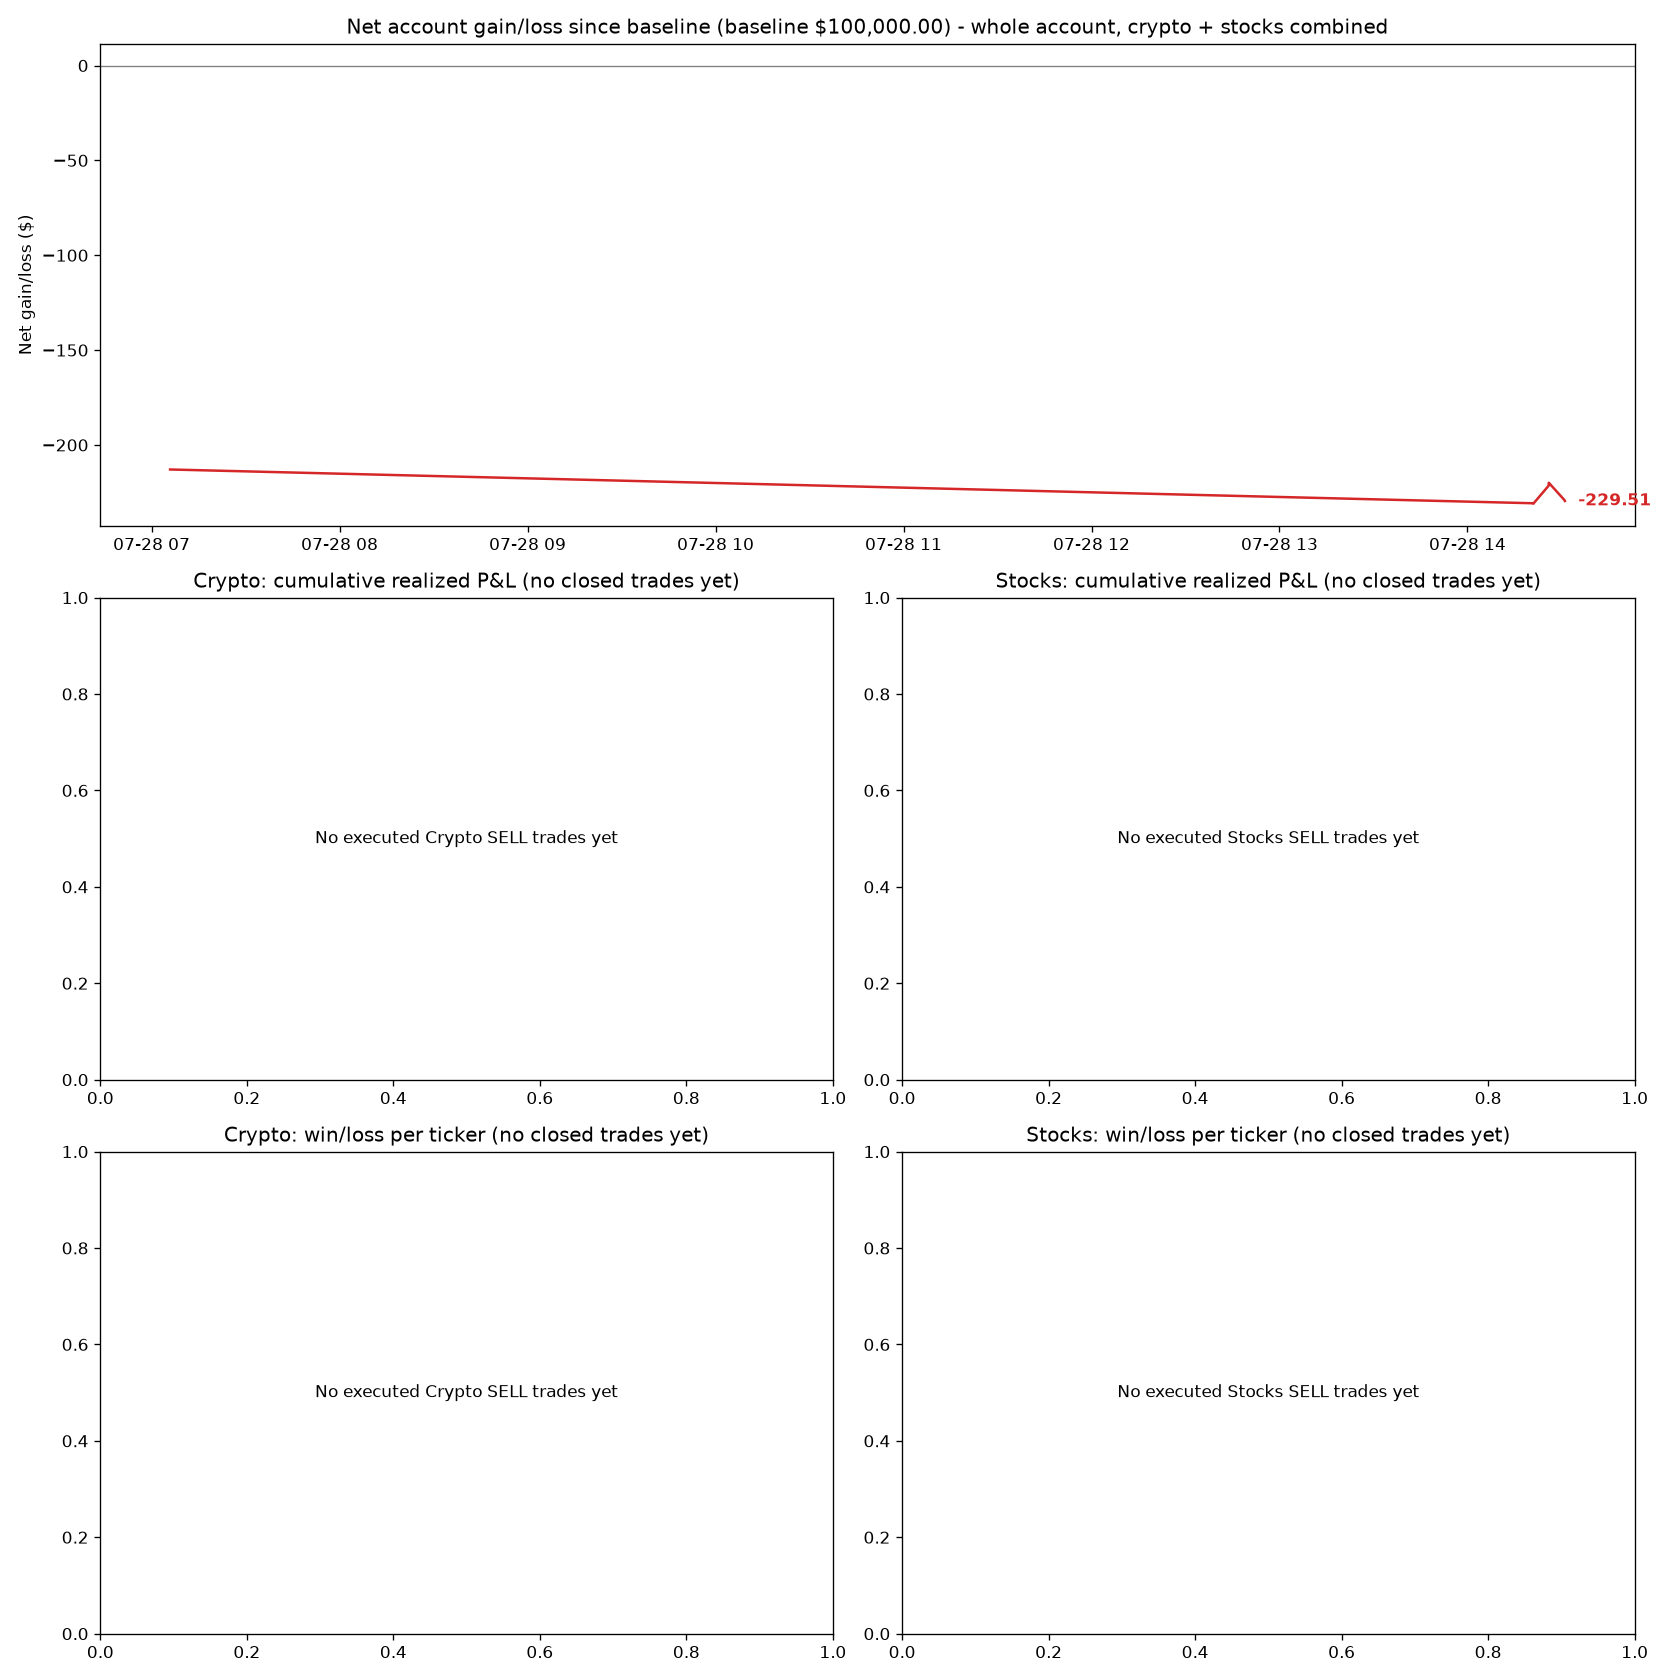
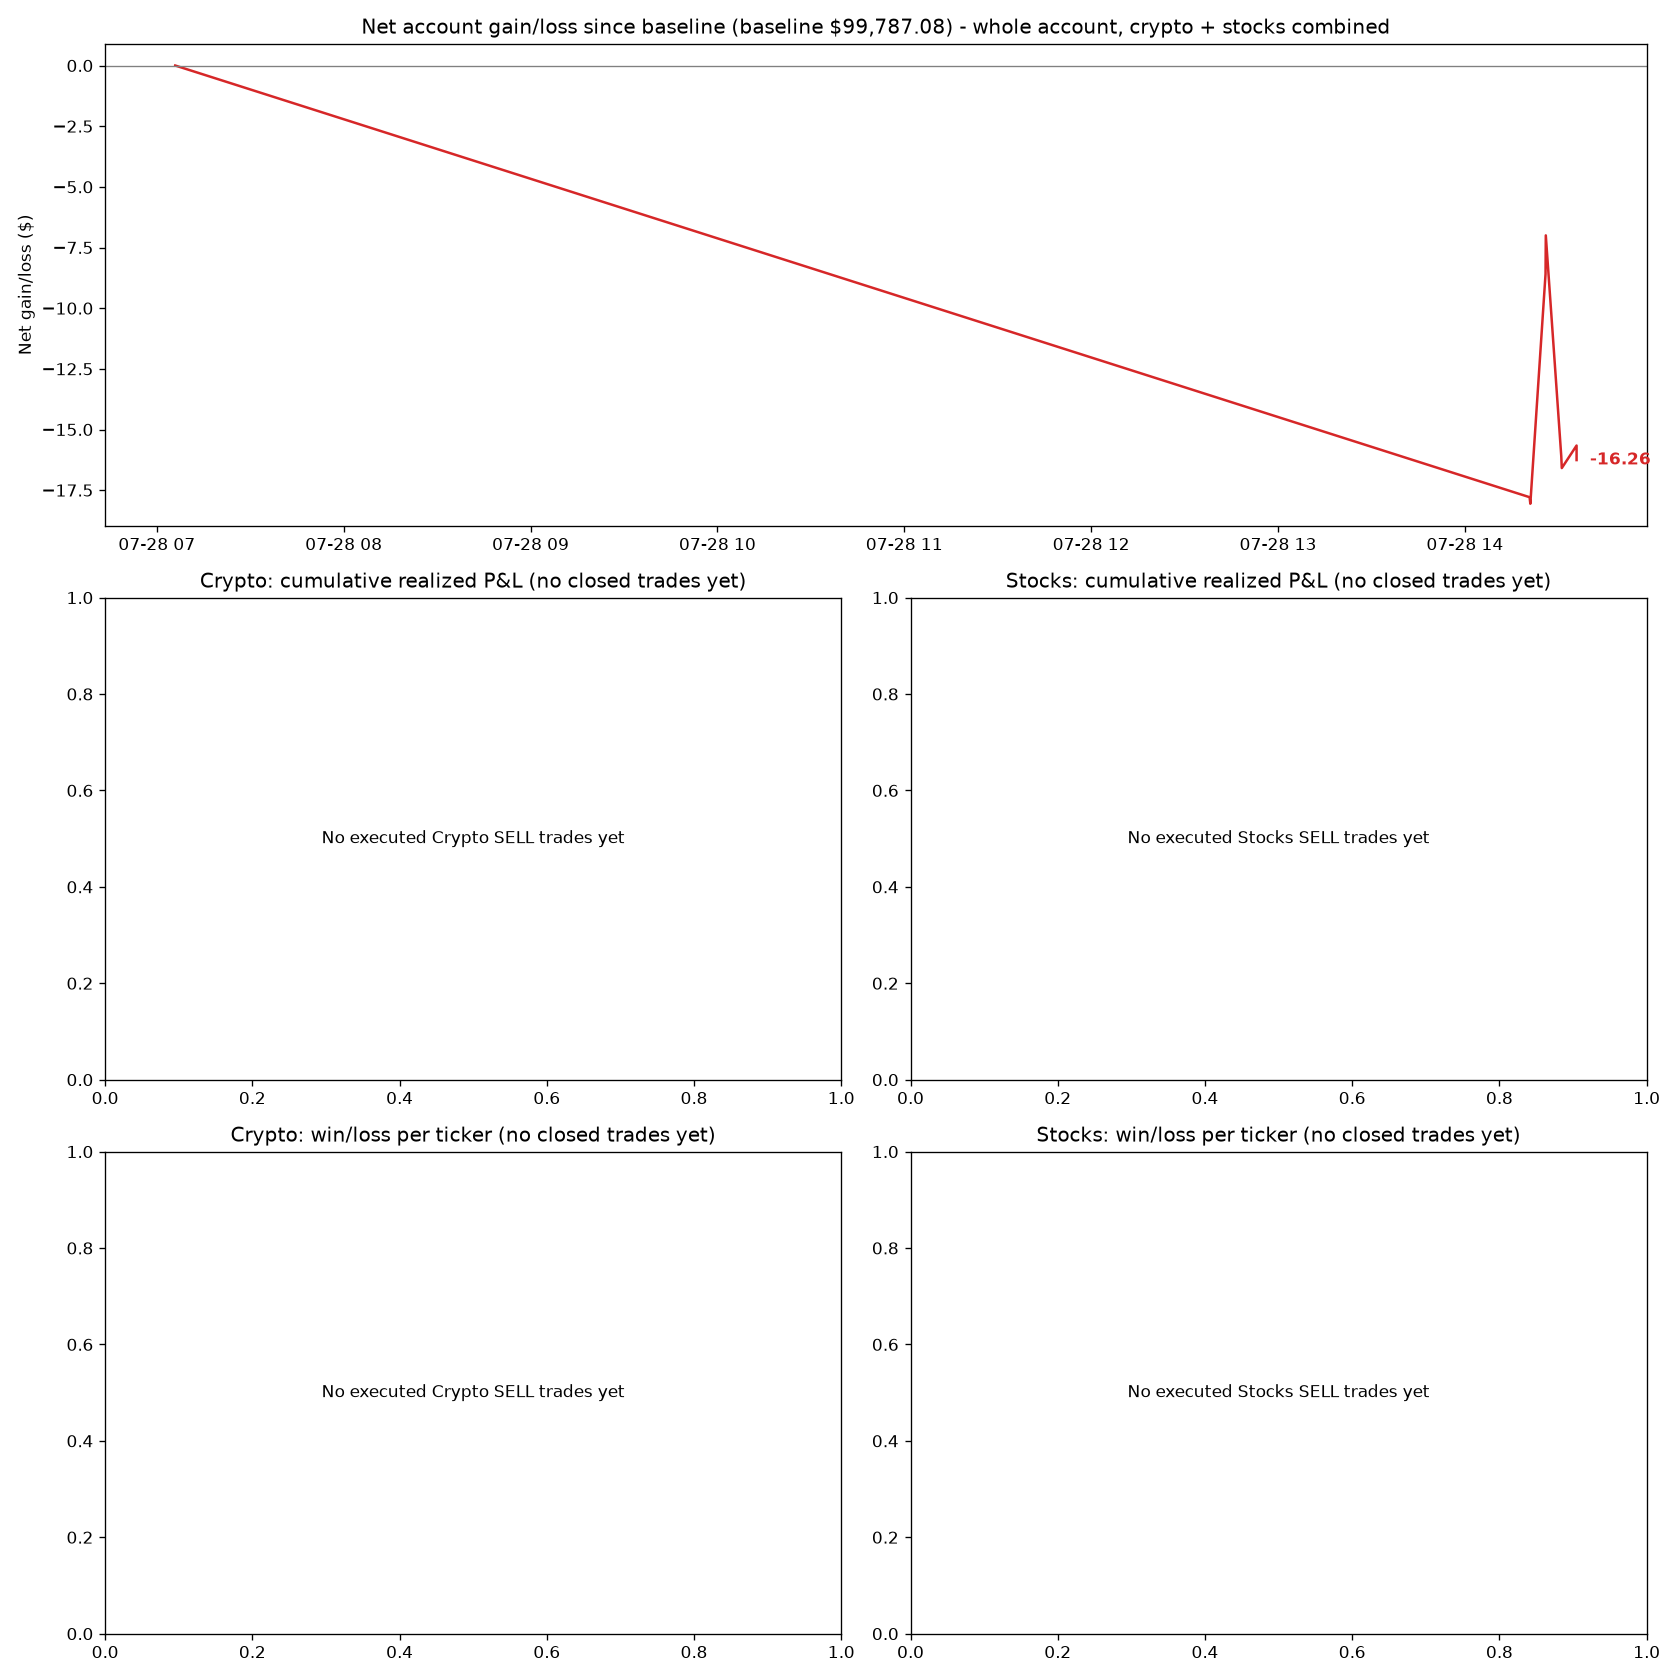
Change dashboard baseline to today's starting value, not $100k funding (v0.9.12)
update-dashboard.yml now runs --baseline 99787.08 (today's real account
value before any of today's trades) instead of the original funding
amount, so the panel reads as today's P&L specifically. Documented in
docs/AUTOMATION.md, including that this needs updating again as a fresh
day/tracking period becomes what should be measured.

diff --git a/docs/AUTOMATION.md b/docs/AUTOMATION.md
@@ -366,27 +366,35 @@ profitable."
 
 **The account-total panel's baseline matters and is easy to misread.**
 By default it's equity minus the *first* row across both equity logs -
-i.e. "gain/loss since equity logging happened to start," which isn't the
-same as "since I funded the account," especially if trades were already
-open before logging began. Pass `--baseline 100000` (or whatever your
-actual starting cash was) to measure from your real starting point
-instead - the title changes to make clear which one you're looking at.
-Both are valid, they just answer different questions - but showing only
-the "since tracking began" one risks looking like it disagrees with what
-Alpaca's own dashboard says, when both numbers are actually correct,
-just measuring from different starting points. Use `--baseline` whenever
-you want the number that matches Alpaca's own total account P&L.
+i.e. "gain/loss since equity logging happened to start," which isn't
+necessarily the number you actually want. Pass `--baseline <value>` to
+measure from whatever starting point is meaningful instead - the title
+always shows the exact dollar baseline used, so which one you're
+looking at is never ambiguous. Two common choices:
+- **Original funding amount** (e.g. `--baseline 100000`) - gives
+  all-time P&L since the account was funded, matching Alpaca's own
+  total account P&L.
+- **Today's starting value** (e.g. `--baseline 99787.08`, whatever the
+  real equity was right before today's trading began) - gives *today's*
+  P&L specifically, ignoring everything before today. This is what
+  `update-dashboard.yml` currently uses - it needs to be updated to a
+  fresh anchor value whenever "today" moves forward, or the panel keeps
+  reporting P&L against an increasingly stale reference point instead
+  of the current day.
+
+Both are valid, they just answer different questions - a baseline
+chosen for one purpose will look "wrong" if read as the other, even
+though the number itself is correct for what it was actually measuring.
 
 It also runs on a schedule: `.github/workflows/update-dashboard.yml`
 regenerates and commits `results/trade_dashboard.png` roughly hourly
-(with `--baseline 100000`, via an external scheduler - GitHub's own
-`schedule:` trigger isn't reliable enough on its own here either, same
-as the trading workflows), so `results/trade_dashboard.png` on GitHub
-stays close to current without me needing to run anything locally - just
-open that file's page on github.com. This is deliberately a slower
-cadence than the 5-minute trading workflows: one image commit an hour is
-a small, bounded cost, where committing an image every 5 minutes forever
-would not be.
+(via an external scheduler - GitHub's own `schedule:` trigger isn't
+reliable enough on its own here either, same as the trading workflows),
+so `results/trade_dashboard.png` on GitHub stays close to current
+without me needing to run anything locally - just open that file's page
+on github.com. This is deliberately a slower cadence than the 5-minute
+trading workflows: one image commit an hour is a small, bounded cost,
+where committing an image every 5 minutes forever would not be.
 
 ## Stock automation: rule-based, 5-minute bars
 

diff --git a/CHANGELOG.md b/CHANGELOG.md
@@ -17,6 +17,20 @@ The `0.x.x` line is "Version Richards"; `1.0.0`+ becomes "Version Giroux."
   regime the most recent real year happened to contain.
 - No known open correctness bugs (true as of 0.5.2).
 
+## Version Richards 0.9.12 - 2026-07-28
+
+- **Changed the dashboard's baseline from the original $100,000 funding
+  amount to $99,787.08** (the account's real value at the start of
+  today, 2026-07-28, before any of today's trades) - `update-dashboard.yml`
+  now runs `visualize_log.py --baseline 99787.08`, so the "Net account
+  gain/loss" panel reads as **today's P&L specifically**, not all-time
+  P&L since funding. Both are valid readings of the same data; this is a
+  deliberate choice of which one the dashboard shows by default now.
+  Documented in `docs/AUTOMATION.md`, including that this baseline value
+  needs to be updated again whenever "today" moves forward - otherwise
+  the panel keeps measuring against an increasingly stale reference
+  point instead of the current day.
+
 ## Version Richards 0.9.11 - 2026-07-28
 
 - **Reorganized `results/` into `results/param_sweep/` and

diff --git a/README.md b/README.md
@@ -1,6 +1,6 @@
 <div align="center">
 
-# InvestingBot — Version Richards 0.9.11
+# InvestingBot — Version Richards 0.9.12
 
 [![Python 3.12+](https://img.shields.io/badge/python-3.12%2B-3776AB?logo=python&logoColor=white)](https://www.python.org/downloads/)
 [![Tests: 81 passing](https://img.shields.io/badge/tests-81%20passing-4c9a2a)](tests/)
